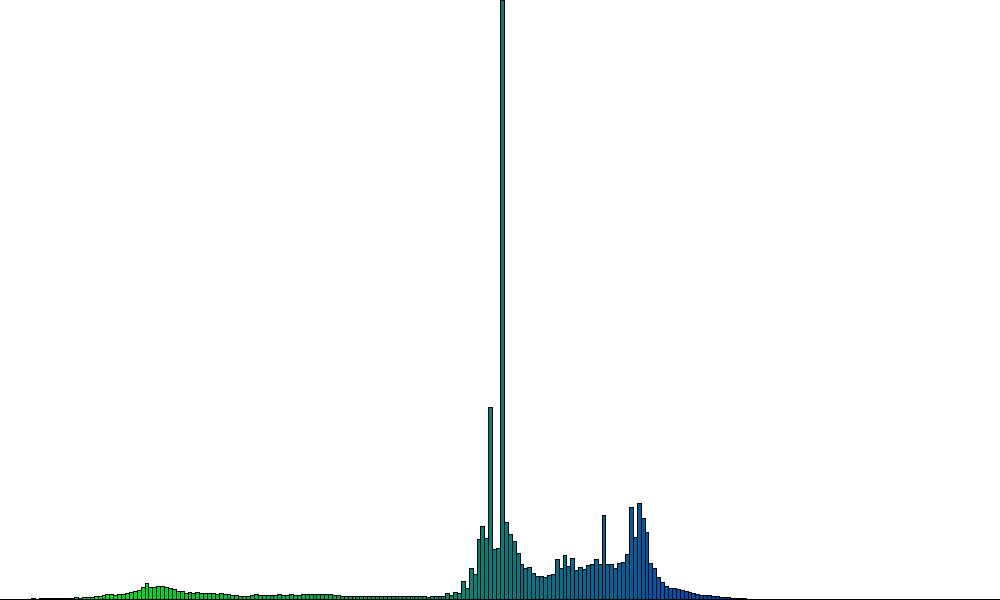
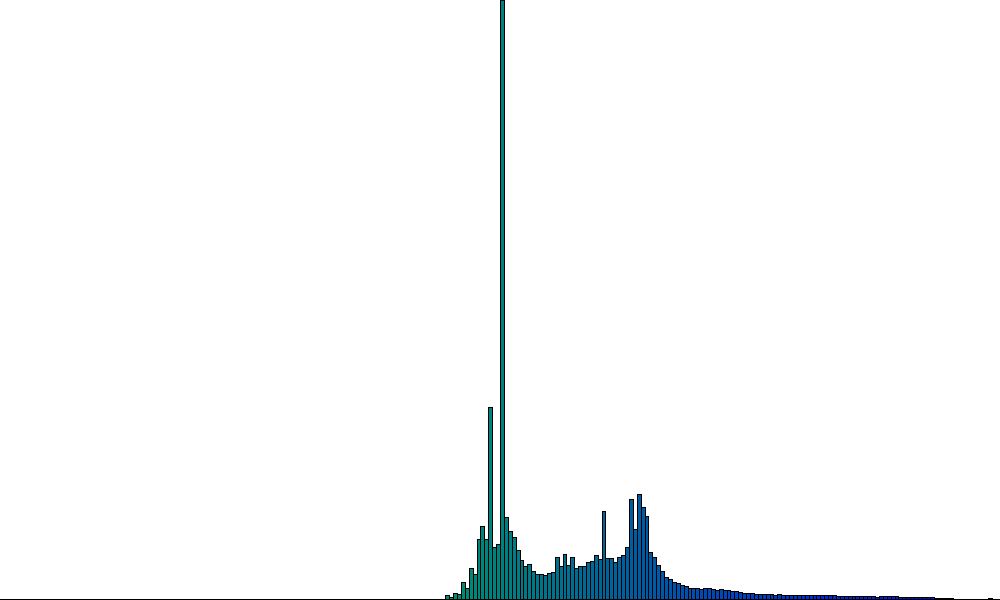
fixed bug with histograms

diff --git a/src/HW.java b/src/HW.java
@@ -69,7 +69,7 @@ public class HW extends Lab5{
         for (int x = 0; x < image.width(); x++) {
             for (int y = 0; y < image.height(); y++) {
                 image.get(y, x, bgr);
-                counts[(int) ((bgr[0] + 128) * 0.114 + (bgr[1] + 128) * 0.587 + (bgr[2] + 128) * 0.299)]++;
+                counts[(int) ((bgr[0] & 0xFF) * 0.114 + (bgr[1] & 0xFF) * 0.587 + (bgr[2] & 0xFF) * 0.299)]++;
             }
         }
         canvas.drawHist(counts);
@@ -83,8 +83,8 @@ public class HW extends Lab5{
         for (int x = 0; x < image.width(); x++) {
             for (int y = 0; y < image.height(); y++) {
                 image.get(y, x, bgr);
-                double Y = ((bgr[0] + 128) * 0.114 + (bgr[1] + 128) * 0.587 + (bgr[2] + 128) * 0.299);
-                counts[(int) (0.5 * (bgr[0] + 128 - Y) / (1 - 0.114) + 128)]++;
+                double Y = ((bgr[0] & 0xFF) * 0.114 + (bgr[1] & 0xFF) * 0.587 + (bgr[2] & 0xFF) * 0.299);
+                counts[(int) (0.5 * ((bgr[0] & 0xFF) - Y) / (1 - 0.114) + 128)]++;
             }
         }
         canvas.drawHist(counts);
@@ -98,8 +98,8 @@ public class HW extends Lab5{
         for (int x = 0; x < image.width(); x++) {
             for (int y = 0; y < image.height(); y++) {
                 image.get(y, x, bgr);
-                double Y = ((bgr[0] + 128) * 0.114 + (bgr[1] + 128) * 0.587 + (bgr[2] + 128) * 0.299);
-                counts[(int) (0.5 * (bgr[2] + 128 - Y) / (1 - 0.299) + 128)]++;
+                double Y = ((bgr[0] & 0xFF) * 0.114 + (bgr[1] & 0xFF) * 0.587 + (bgr[2] & 0xFF) * 0.299);
+                counts[(int) (0.5 * ((bgr[2] & 0xFF) - Y) / (1 - 0.299) + 128)]++;
             }
         }
         canvas.drawHist(counts);
